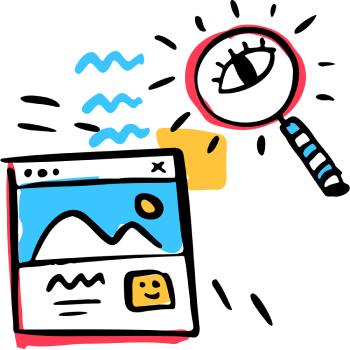
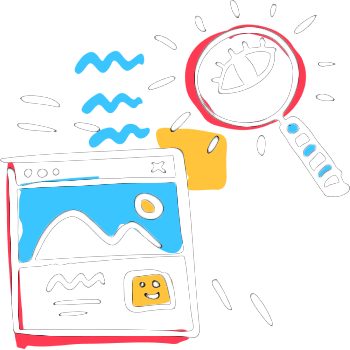
💅 Switch to Dark Mode 🌑

diff --git a/components/Layout.tsx b/components/Layout.tsx
@@ -1,8 +1,8 @@
 import * as React from "react";
-import Link from "next/link";
 import Head from "next/head";
 import { PageWrapper } from "./PageWrapper";
 import GlobalStyle from "../config/GlobalStyle";
+import Nav from "./Nav";
 
 type Props = {
   title?: string;
@@ -11,55 +11,33 @@ type Props = {
 const Layout: React.FunctionComponent<Props> = ({
   children,
   title = "This is the default title",
-}) => (
-  <div>
-    <GlobalStyle />
-    <Head>
-      <title>{title}</title>
-      <meta charSet="utf-8" />
-      <link
-        href="https://fonts.googleapis.com/css2?family=IBM+Plex+Sans:ital,wght@0,400;0,700;1,400"
-        rel="stylesheet"
-      />
-      <meta name="viewport" content="initial-scale=1.0, width=device-width" />
-    </Head>
-    <header>
-      <nav>
-        <Link href="/">
-          <a>Home</a>
-        </Link>{" "}
-        |{" "}
-        <Link href="/chapters/1-analyse">
-          <a>Analyse</a>
-        </Link>{" "}
-        |{" "}
-        <Link href="/chapters/2-synthesise">
-          <a>Synthesise</a>
-        </Link>{" "}
-        |{" "}
-        <Link href="/chapters/3-simulate">
-          <a>Simulate</a>
-        </Link>{" "}
-        |{" "}
-        <Link href="/chapters/4-evaluate">
-          <a>Evaluate</a>
-        </Link>{" "}
-        |{" "}
-        <Link href="/chapters/5-repeat">
-          <a>Repeat</a>
-        </Link>
-      </nav>
-    </header>
-    {children}
-    <PageWrapper>
-      <footer>
-        Made with ❤ by{" "}
-        <a href="https://nilswesthoff.com" target="blank">
-          Nils
-        </a>
-      </footer>
-    </PageWrapper>
-  </div>
-);
+}) => {
+  return (
+    <div>
+      <GlobalStyle />
+      <Head>
+        <title>{title}</title>
+        <meta charSet="utf-8" />
+        <link
+          href="https://fonts.googleapis.com/css2?family=IBM+Plex+Sans:ital,wght@0,400;0,700;1,400"
+          rel="stylesheet"
+        />
+        <meta name="viewport" content="initial-scale=1.0, width=device-width" />
+      </Head>
+      <header>
+        <Nav />
+      </header>
+      {children}
+      <PageWrapper>
+        <footer>
+          Made with ❤ by{" "}
+          <a href="https://nilswesthoff.com" target="blank">
+            Nils
+          </a>
+        </footer>
+      </PageWrapper>
+    </div>
+  );
+};
 
 export default Layout;

diff --git a/components/ChapterBlock.tsx b/components/ChapterBlock.tsx
@@ -2,6 +2,7 @@ import styled from "styled-components";
 import { theme } from "../config/theme";
 import { Parallax } from "react-scroll-parallax";
 import Link from "next/link";
+import { Fragment } from "react";
 
 const Spacer = styled.div`
   width: 5rem;
@@ -44,7 +45,8 @@ const ChapterContainer = styled.div`
 
 const ChapterTextContainer = styled.div`
   position: relative;
-  max-width: 380px;
+  max-width: ${(props: { disableImage?: boolean }) =>
+    props.disableImage ? "630px" : "380px"};
   color: #0f0f0f;
 `;
 
@@ -55,11 +57,11 @@ const ChapterTitle = styled.h1`
   line-height: 1em;
 
   a {
-    color: #000;
+    color: white;
     text-decoration: none;
 
     &:hover {
-      color: #444;
+      color: #ddd;
     }
   }
 
@@ -78,12 +80,13 @@ interface Props {
   children?: string;
   index: number;
   reverse?: boolean;
+  disableImage?: boolean;
 }
 
 const ChapterBlock = (props: Props) => {
   return (
     <ChapterContainer reverse={props.reverse}>
-      <ChapterTextContainer>
+      <ChapterTextContainer disableImage={props.disableImage}>
         <ChapterIndex>
           <Parallax y={[5, -5]} tagOuter="div">
             {props.index}
@@ -98,12 +101,16 @@ const ChapterBlock = (props: Props) => {
 
         <p>{props.children}</p>
       </ChapterTextContainer>
-      <Spacer />
-      <div>
-        <Parallax y={[15, -15]} tagOuter="figure">
-          <ChapterImage src={`img/${props.title.toLowerCase()}.png`} />
-        </Parallax>
-      </div>
+      {props.disableImage ? null : (
+        <Fragment>
+          <Spacer />
+          <div>
+            <Parallax y={[15, -15]} tagOuter="figure">
+              <ChapterImage src={`img/${props.title.toLowerCase()}.png`} />
+            </Parallax>
+          </div>
+        </Fragment>
+      )}
     </ChapterContainer>
   );
 };

diff --git a/pages/index.tsx b/pages/index.tsx
@@ -19,6 +19,14 @@ const IndexPage = () => (
         </p>
       </PageIntroduction>
 
+      <ChapterBlock title="Introduction" index={0} disableImage>
+        Lorem ipsum dolor sit amet, consectetur adipiscing elit. Pellentesque
+        eleifend placerat justo, vitae auctor purus eleifend id. Phasellus
+        pulvinar, erat quis consequat vestibulum, diam odio pretium felis, id
+        sodales odio eros non leo. Duis tempor mollis mauris, at ullamcorper
+        lorem volutpat vel.
+      </ChapterBlock>
+
       <ChapterBlock title="Analyse" index={1}>
         Lorem ipsum dolor sit amet, consectetur adipiscing elit. Pellentesque
         eleifend placerat justo, vitae auctor purus eleifend id. Phasellus
@@ -52,6 +60,14 @@ const IndexPage = () => (
       </ChapterBlock>
 
       <ChapterBlock title="Repeat" index={5}>
+        Lorem ipsum dolor sit amet, consectetur adipiscing elit. Pellentesque
+        eleifend placerat justo, vitae auctor purus eleifend id. Phasellus
+        pulvinar, erat quis consequat vestibulum, diam odio pretium felis, id
+        sodales odio eros non leo. Duis tempor mollis mauris, at ullamcorper
+        lorem volutpat vel.
+      </ChapterBlock>
+
+      <ChapterBlock title="Conclusion" index={6} disableImage>
         Lorem ipsum dolor sit amet, consectetur adipiscing elit. Pellentesque
         eleifend placerat justo, vitae auctor purus eleifend id. Phasellus
         pulvinar, erat quis consequat vestibulum, diam odio pretium felis, id

diff --git a/components/Nav.tsx b/components/Nav.tsx
@@ -1,0 +1,58 @@
+import React from "react";
+import Link from "next/link";
+import styled from "styled-components";
+import { useState } from "react";
+
+const NavCollapseButton = styled.button`
+  color: black;
+`;
+export default function Nav() {
+  const [menuOpen, setMenuOpen] = useState(false);
+
+  return (
+    <div>
+      <NavCollapseButton
+        onClick={() => {
+          setMenuOpen(!menuOpen);
+        }}
+      >
+        menu
+      </NavCollapseButton>
+      {menuOpen ? (
+        <nav>
+          <Link href="/">
+            <a>Home</a>
+          </Link>{" "}
+          |{" "}
+          <Link href="/chapters/0-introduction">
+            <a>Introduction</a>
+          </Link>{" "}
+          |{" "}
+          <Link href="/chapters/1-analyse">
+            <a>Analyse</a>
+          </Link>{" "}
+          |{" "}
+          <Link href="/chapters/2-synthesise">
+            <a>Synthesise</a>
+          </Link>{" "}
+          |{" "}
+          <Link href="/chapters/3-simulate">
+            <a>Simulate</a>
+          </Link>{" "}
+          |{" "}
+          <Link href="/chapters/4-evaluate">
+            <a>Evaluate</a>
+          </Link>{" "}
+          |{" "}
+          <Link href="/chapters/5-repeat">
+            <a>Repeat</a>
+          </Link>
+          |{" "}
+          <Link href="/chapters/6-conclusion">
+            <a>Conclusion</a>
+          </Link>
+        </nav>
+      ) : null}
+    </div>
+  );
+}

diff --git a/components/PageIntroduction.tsx b/components/PageIntroduction.tsx
@@ -14,7 +14,7 @@ const PageIntroduction = styled.div`
     border-left: 1px solid #979797;
     padding-left: 3rem;
     max-width: 630px;
-    color: #545454;
+    color: #ababab;
   }
 
   @media (max-width: ${theme.breakpoints.tablet}px) {

diff --git a/config/GlobalStyle.ts b/config/GlobalStyle.ts
@@ -3,6 +3,11 @@ import { createGlobalStyle } from "styled-components";
 const GlobalStyle = createGlobalStyle`
   * {
     font-family: 'IBM Plex Sans', sans-serif;
+    color: white;
+  }
+
+  body {
+    background-color: #000;
   }
 `;
 
